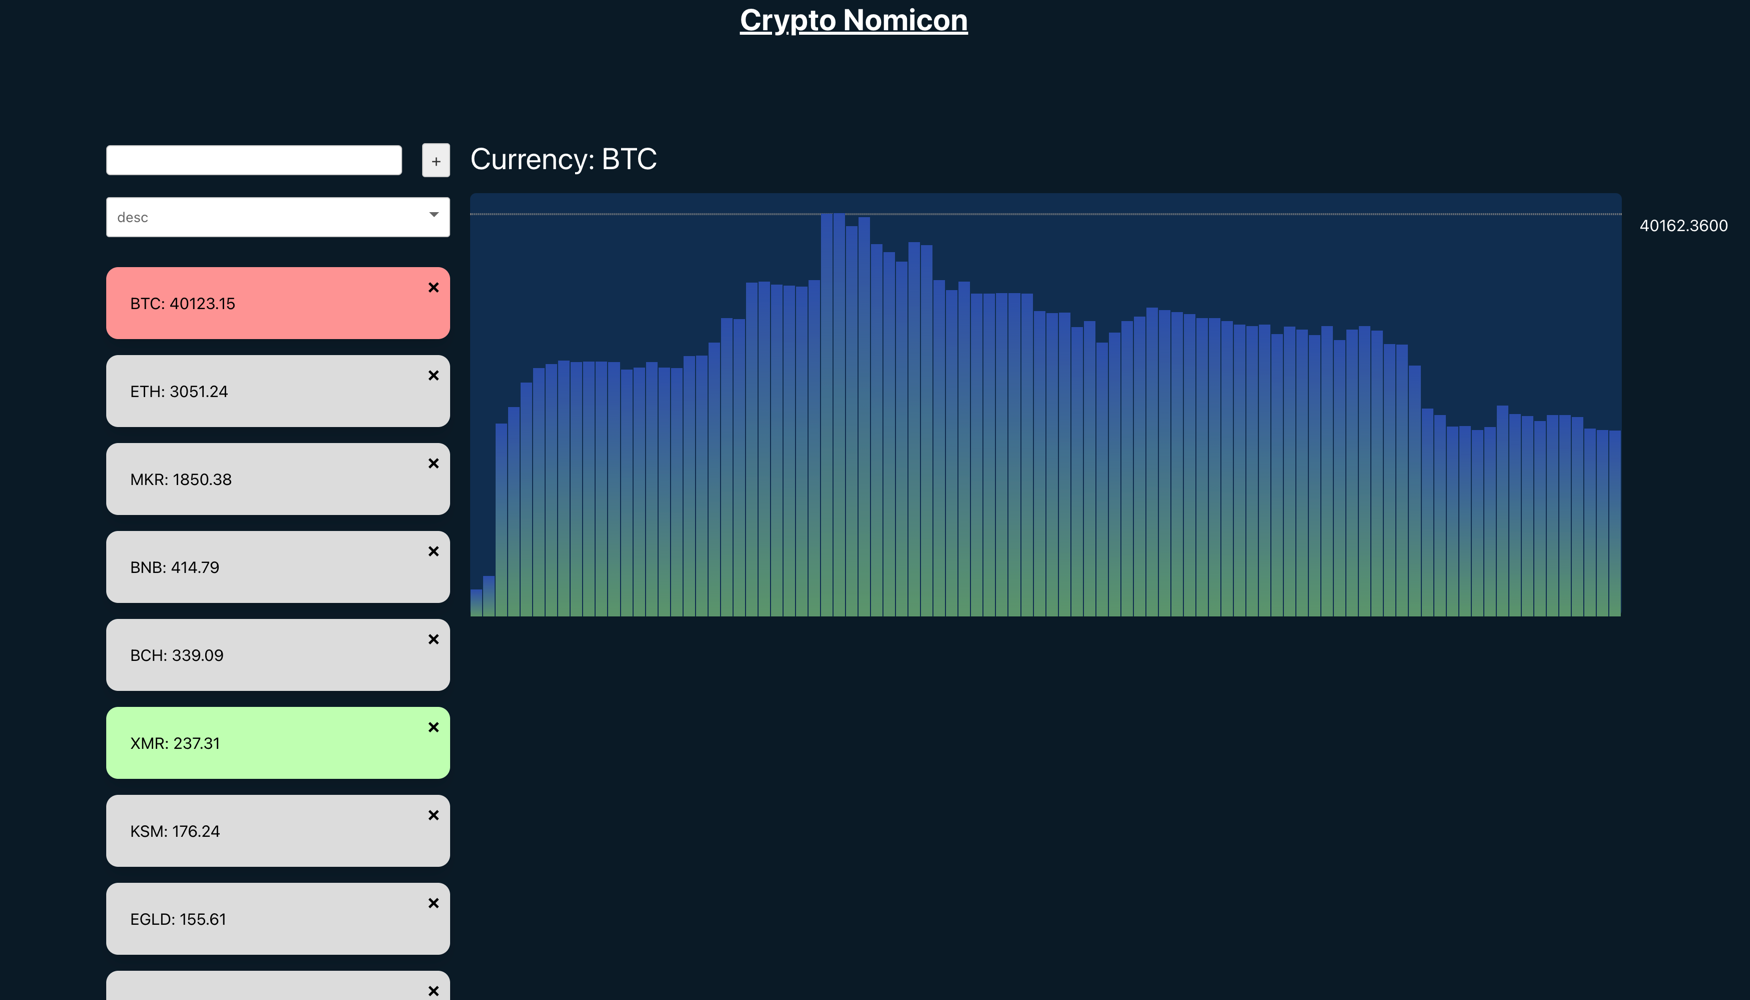
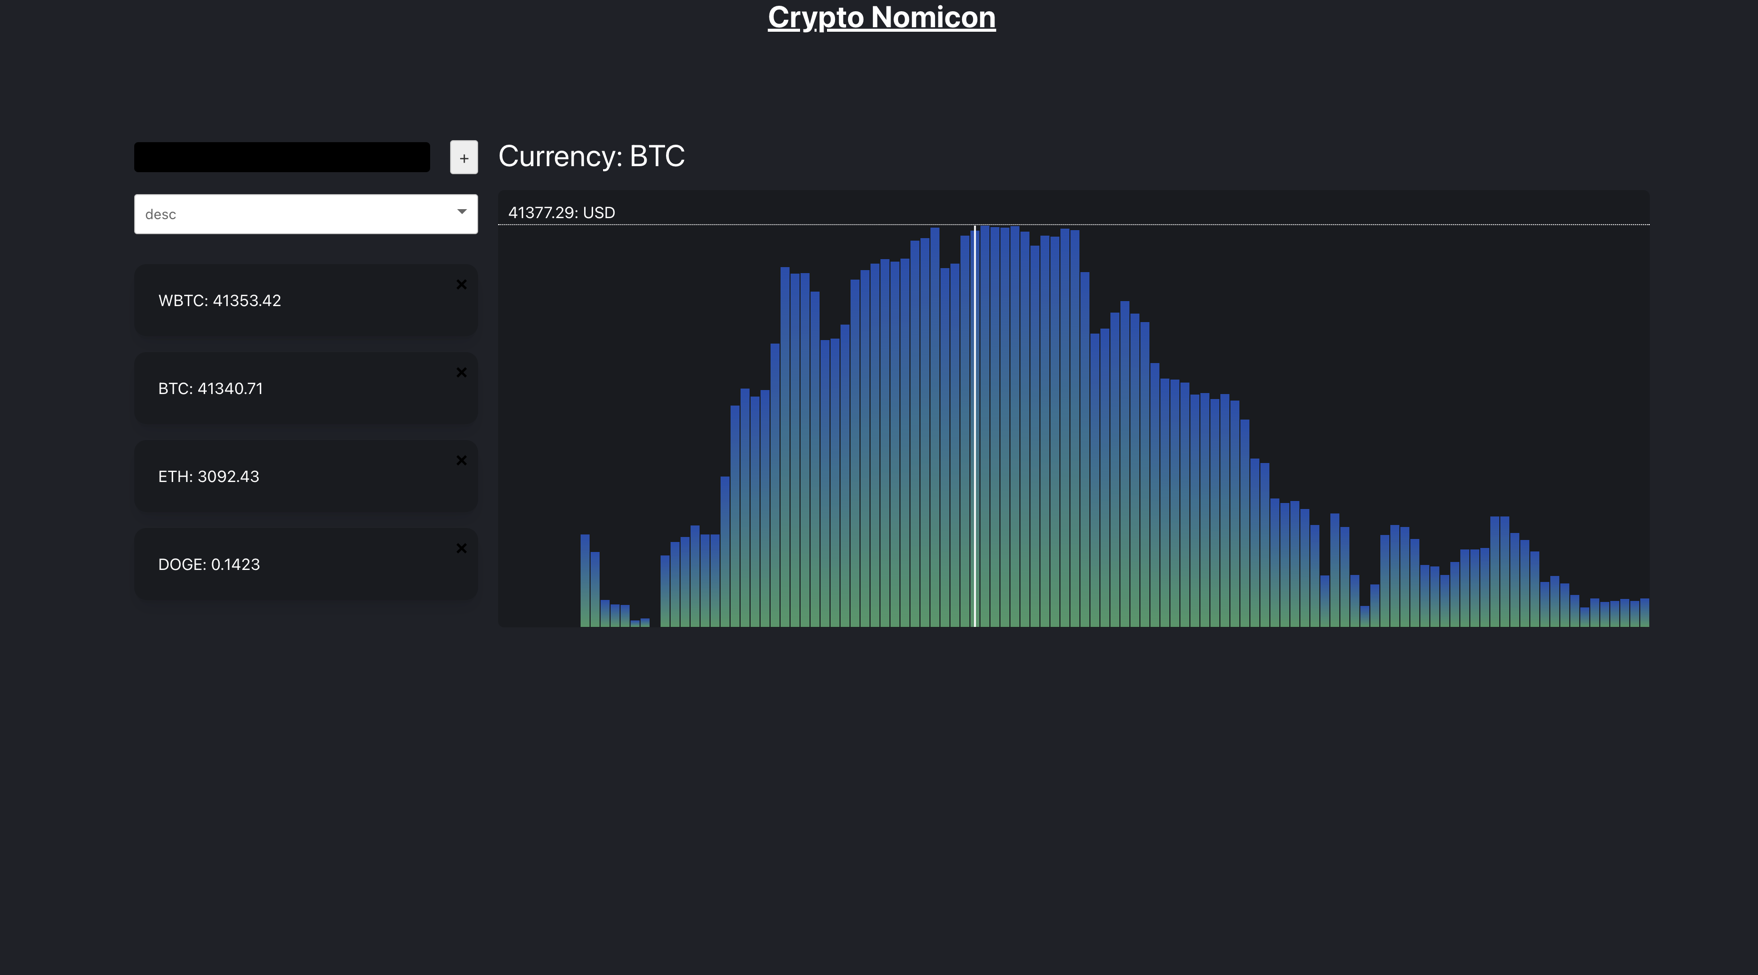
add cation hover

diff --git a/src/components/price-graf/price-graf.tsx b/src/components/price-graf/price-graf.tsx
@@ -1,15 +1,35 @@
-import React from 'react';
+import React, {useEffect, useRef, useState} from 'react';
 import './price-graf.css';
-import {takeRight} from '../../utils/collections';
+import {getFromEnd, last, takeRight} from '../../utils/collections';
 
 interface Props {
 	prices: Array<number>
 	currency: string;
 }
 
-const MAX_ITEM = 100;
+const MAX_ITEM = 150;
+const WIDTH_CURRENCY = 10;
+
+
+function observeWith(setWidth: (width: number) => void, grafElement:  React.RefObject<HTMLUListElement>) {
+	useEffect(() => {
+		const handler = () => {
+			setWidth(grafElement.current!.clientWidth);
+		};
+		handler();
+		window.addEventListener('resize', handler);
+		return () => window.removeEventListener('resize', handler);
+	}, []);
+}
+
+let timer: number|null = null;
 
 const PriceGraf: React.FC<Props> = ({prices= []}) => {
+	const mousePosition = useRef<number>(0);
+	const grafElement = useRef<HTMLUListElement>(null);
+	const [width, setWidth] = useState<number>(1000);
+	const [item, setItem] = useState<number>(0);
+	const [hoverItem, setHoverItem] = useState<number>(0);
 	const maxPrice = Math.max(...prices);
 	const minPrice = Math.min(...prices);
 	const maxPriceDiff = maxPrice - minPrice;
@@ -21,26 +41,55 @@ const PriceGraf: React.FC<Props> = ({prices= []}) => {
 	const limitedPrice = takeRight(prices, MAX_ITEM);
 	const pricesSizes =	limitedPrice.map(getSize);
 
-	return (
-		<div className="price-grafic">
-			{isFinite(maxPrice) && (
-				<div>
-					<div className="price-grafic__max">
-						{ maxPrice.toFixed(4)}
-					</div>
-					<div className="price-grafic__line"></div>
-				</div>
-			)}
+	const hoverPrice = last(limitedPrice);
 
-			<ul>
-				{pricesSizes.map((item, index) => (
-					<li className="relative" key={item + index} style={{height: `${item}%`}}>
-						<span className="hover-tooltip bg-white opacity-0 z-10 absolute top-0 left-1/2 transition-all">
-							{limitedPrice[index]}
-						</span>
-					</li>
-				))}
-			</ul>
+	const mouseSpy = (e: React.MouseEvent<HTMLUListElement, MouseEvent>) => {
+		mousePosition.current = e.nativeEvent.offsetX;
+	};
+
+	const mouseLeave = () => {
+		mousePosition.current = 0;
+	};
+
+	useEffect(() => {
+		setHoverItem(getFromEnd(limitedPrice, item));
+	}, [item, limitedPrice]);
+
+	observeWith(setWidth, grafElement);
+
+	useEffect(() => {
+		function calculateItem() {
+			timer = window.requestAnimationFrame(calculateItem);
+			const i = Math.floor((width - mousePosition.current) / WIDTH_CURRENCY);
+			setItem(i);
+		}
+		calculateItem();
+		return () => window.cancelAnimationFrame(timer!);
+	}, [width]);
+
+
+	function classHover(index: number) {
+		let className = 'relative';
+		if ((limitedPrice.length - index) === item + 1 ) {
+			className += ' hover';
+		}
+		return className;
+	}
+
+	return (
+		<div>
+		<div className="price-grafic">
+			<div className="white">
+				{hoverItem || hoverPrice}: USD
+			</div>
+				<ul ref={grafElement} onMouseLeave={mouseLeave} onMouseMove={mouseSpy}>
+					{pricesSizes.map((item, index) => (
+						<li className={classHover(index)} key={item + index} style={{width: WIDTH_CURRENCY + 'px'}}>
+							<span className="" style={{height: `${item}%`}}></span>
+						</li>
+					))}
+				</ul>
+		</div>
 		</div>
 	);
 };

diff --git a/src/components/price-graf/price-graf.css b/src/components/price-graf/price-graf.css
@@ -1,9 +1,13 @@
 .price-grafic {
-    padding-top: 20px;
     background-color: var(--backgroud-acept);
     border-radius: 6px;
     position: relative;
 }
+.price-grafic .white{
+    padding-top: 10px;
+    padding-left: 10px;
+}
+
 
 .price-grafic ul {
     display: flex;
@@ -15,21 +19,56 @@
     height: 40vh;
     overflow: hidden;
     contain: strict;
+    border-top: 1px dotted white;
 }
 
 .price-grafic li {
-    min-width: 1%;
     max-width: 5%;
+    height: 100%;
+    display: flex;
+    align-items: flex-end;
+    border: 0.5px solid transparent;
+    pointer-events: none;
+    touch-action: none;
+    flex-shrink: 0;
+}
+
+.price-grafic li.hover {
+    height: 100%;
+    display: flex;
+    align-items: flex-end;
+    border: 0.5px solid transparent;
+    pointer-events: none;
+    touch-action: none;
+    flex-shrink: 0;
+}
+
+.price-grafic li::after {
+    width: 2px;
+    height: 100%;
+    content: "";
+    background-color: white;
+    position: absolute;
+    top: 0;
+    opacity: 0;
+    z-index: 2;
+    left: 50%;
+    transform: translateX(-50%);
+}
+
+.price-grafic li span {
+    width: 100%;
+    display: block;
     background: linear-gradient(180deg, #2C4DAB 0%, #5B956A 100%);
-    margin-right: 1px;
+    position: relative;
+    z-index: 1;
+    pointer-events: none;
+    touch-action: none;
 }
 
-.price-grafic li:hover .hover-tooltip{
-    opacity: 1;
-}
 
-.hover-tooltip {
-    transform: translateY(-100%) translateX(-50%);
+.price-grafic li.hover::after {
+    opacity: 0.9;
 }
 
 .price-grafic__line {

diff --git a/src/view/list.tsx b/src/view/list.tsx
@@ -121,7 +121,7 @@ const List: React.FC = () => {
 			const newCurrency = prev[key] || [];
 			return {
 				...prev,
-				[key]: takeRight([...newCurrency, data.newPrice as number],100)
+				[key]: takeRight([...newCurrency, data.newPrice as number],300)
 			};
 		});
 	}, []);
@@ -192,12 +192,14 @@ const List: React.FC = () => {
 		<div className="list main">
 			<Loader isLoading={!isConnecting}/>
 			<div className="left-side">
-				<form onSubmit={addItem} className={'Search'}>
-					<Input className={'ListInput'} value={search} onChange={setSearch}/>
-					<Button onClick={addItem}>+</Button>
-				</form>
-				<div>
-					<Select onChange={setSortBy} value={sortBy} options={sortOptions}/>
+				<div className="left-side-top">
+					<form onSubmit={addItem} className={'Search'}>
+						<Input className={'ListInput'} value={search} onChange={setSearch}/>
+						<Button onClick={addItem}>+</Button>
+					</form>
+					<div>
+						<Select onChange={setSortBy} value={sortBy} options={sortOptions}/>
+					</div>
 				</div>
 
 				{isEmptyCurrencyList ? (

diff --git a/src/components/currency/currency.css b/src/components/currency/currency.css
@@ -3,9 +3,10 @@
 }
 
 .item {
-  background-color: #dcdcdc;
+  background-color: var(--backgroud-acept);
   transition: transform 0.2s;
   cursor: pointer;
+  color: white;
 }
 
 .item:not(.selected):hover {
@@ -37,11 +38,11 @@
 }
 
 .currency-item--decrease {
-  background-color: #ff9393;
+  background-color: var(--backgroud-currency-down);
 }
 
 .currency-item--up {
-  background-color: #beffb0;
+  background-color: var(--backgroud-currency-up);
 }
 
 .close:focus {

diff --git a/src/styles/colors.css b/src/styles/colors.css
@@ -1,4 +1,8 @@
+/*TODO change*/
 :root {
-   --backgroud-color: #0a1a26;
-    --backgroud-acept: #102D4F;
+    --backgroud-color: rgb(31, 33, 40);
+    --backgroud-acept: rgb(25, 27, 31);
+    --backgroud-interactive-elements-ui: rgb(0, 0, 0);
+    --backgroud-currency-up: rgb(39, 174, 96);;
+    --backgroud-currency-down: rgb(253, 64, 64);
 }

diff --git a/src/utils/collections.ts b/src/utils/collections.ts
@@ -16,6 +16,10 @@ export function first<T = unknown>(array: Array<T>) {
 	return array[0];
 }
 
+export function getFromEnd<T = unknown>(array: Array<T>, index: number) {
+	return array[(array.length - index) - 1];
+}
+
 export function getDifference<T>(array: Array<T>, other?: Array<T>) {
 	const a = array || [];
 	const b = other || [];

diff --git a/src/components/input/input.css b/src/components/input/input.css
@@ -1,11 +1,12 @@
 .Input {
     width: 100%;
     height: 30px;
-    border: 1px solid #ccc;
+    border: none;
     border-radius: 4px;
     padding: 0 10px;
     font-size: 14px;
-    color: #333;
+    color: white;
     outline: none;
     transition: all 0.3s;
+    background-color: var(--backgroud-interactive-elements-ui);
 }

diff --git a/src/components/select/select.css b/src/components/select/select.css
@@ -14,6 +14,7 @@
   -moz-user-select: none;
   -ms-user-select: none;
   user-select: none;
+  /*background-color: var(--backgroud-interactive-elements-ui);*/
 }
 
 .select_value {

diff --git a/src/view/list.css b/src/view/list.css
@@ -22,6 +22,7 @@
     height: calc(100vh - 150px);
     display: flex;
     flex-direction: column;
+
 }
 
 .left-side > * {
